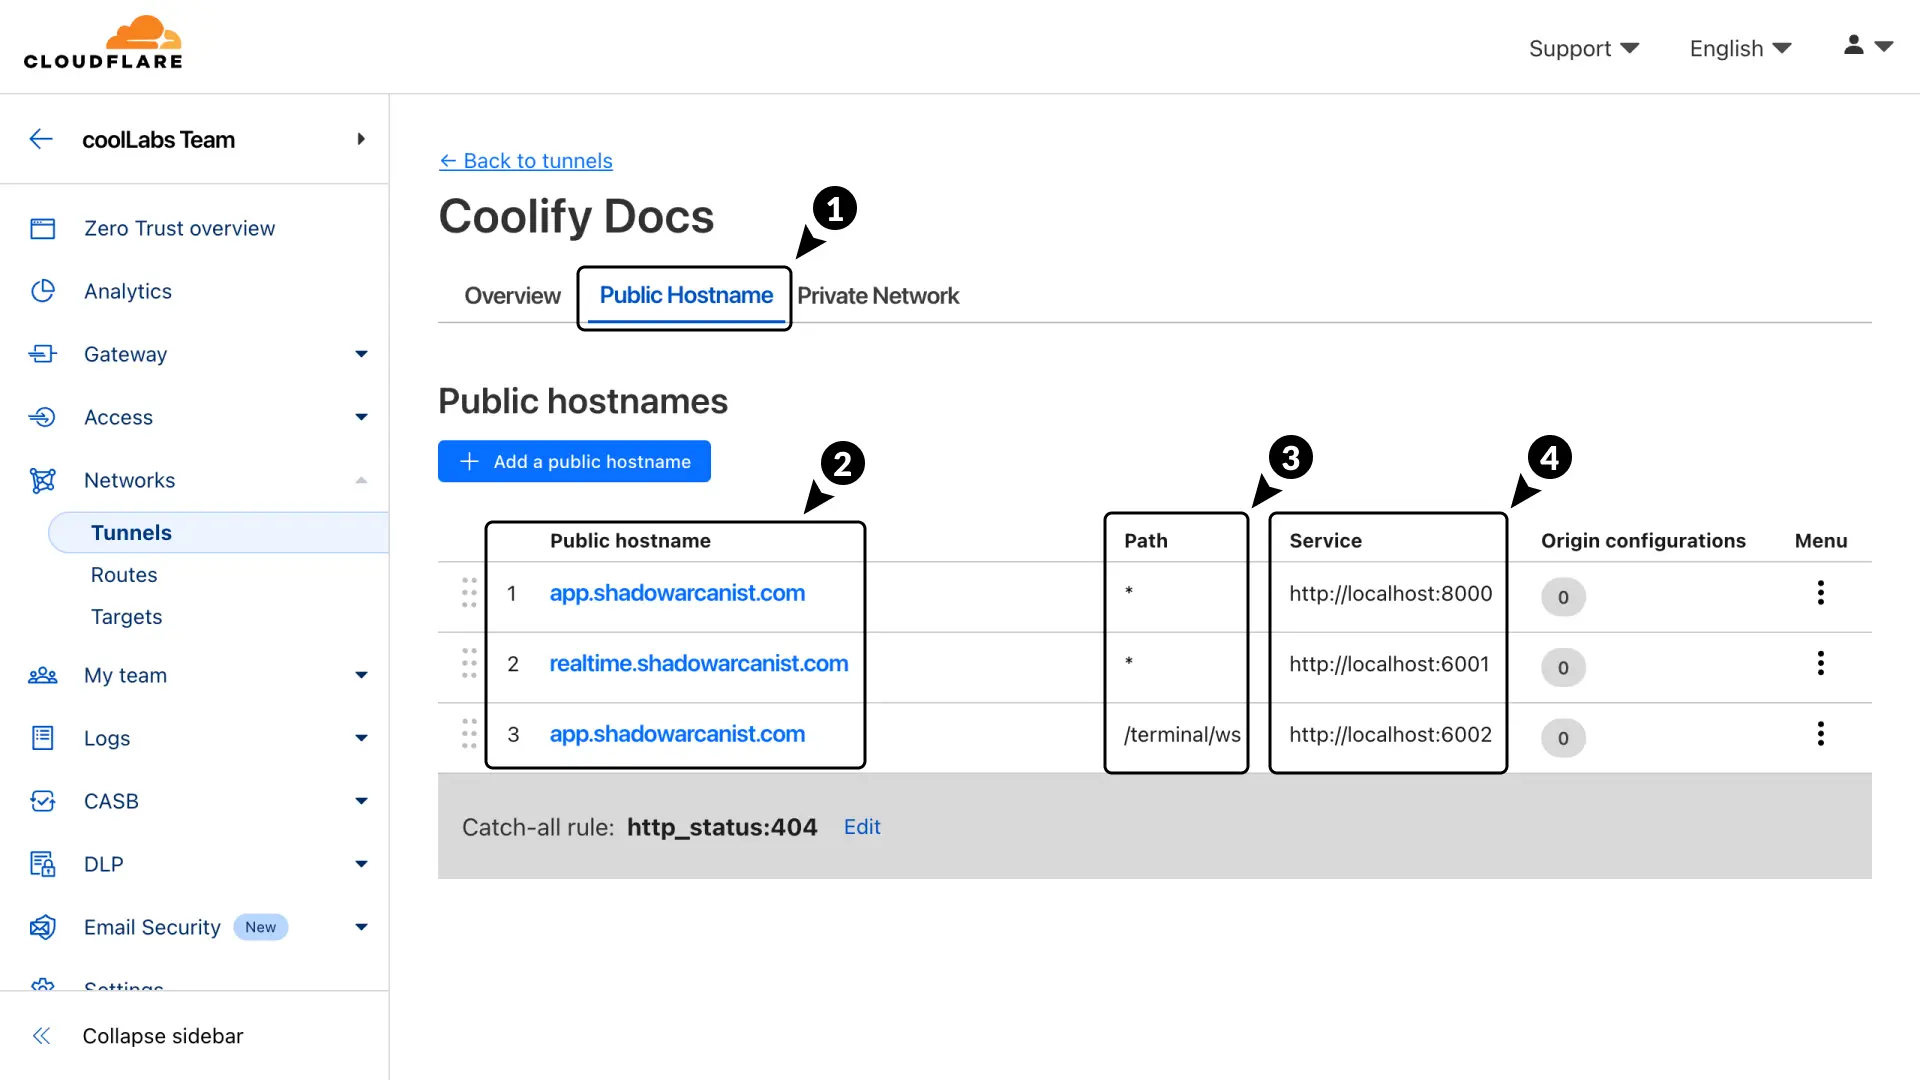
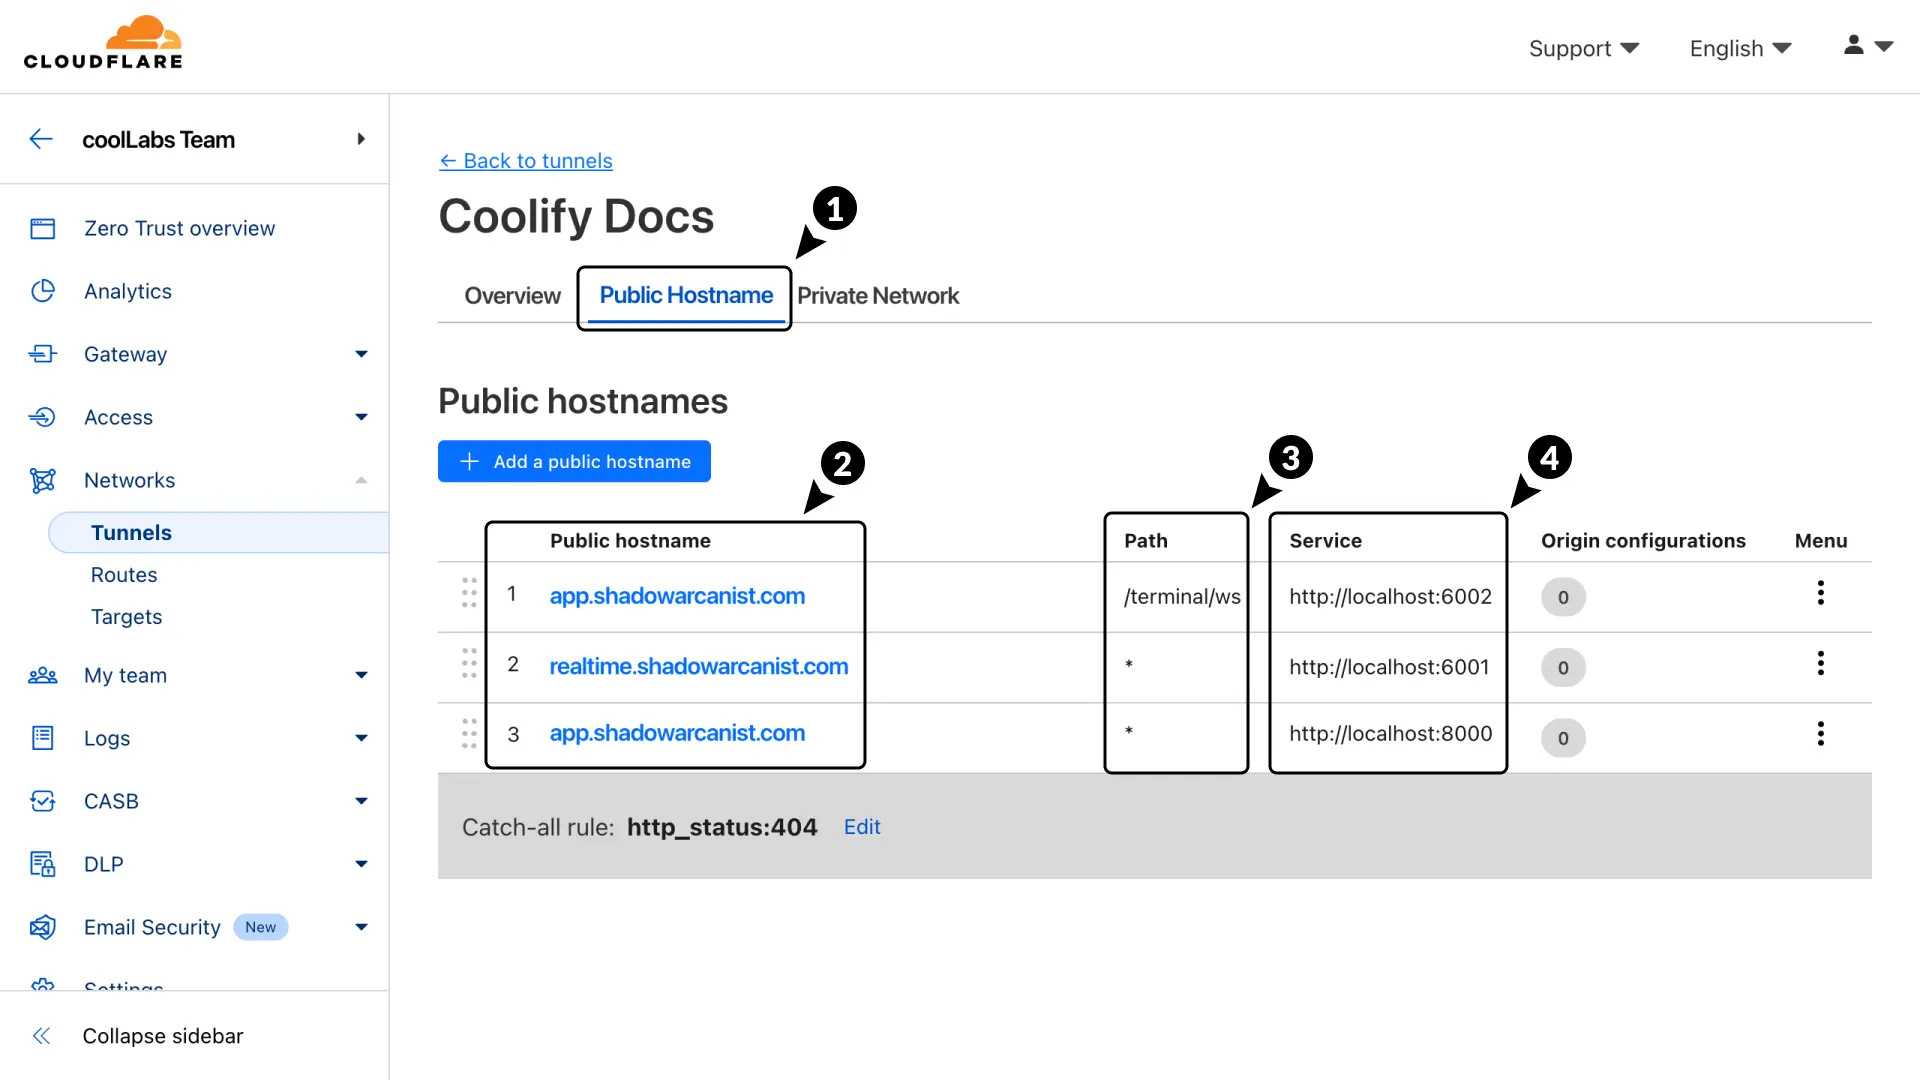
fix: hostname order for single resource tunnel

diff --git a/docs/knowledge-base/cloudflare/tunnels/single-resource.md b/docs/knowledge-base/cloudflare/tunnels/single-resource.md
@@ -3,10 +3,11 @@ title: "Access Single Resource via Cloudflare Tunnels"
 ---
 
 # Access Single Resource via Cloudflare Tunnels
-Accessing an Resource deployed on Coolify using a Cloudflare Tunnel allows you to securely reach your app without exposing your server’s IP address or without having a Public IP address for the server. 
 
+Accessing an Resource deployed on Coolify using a Cloudflare Tunnel allows you to securely reach your app without exposing your server’s IP address or without having a Public IP address for the server.
 
 ## Who this is for?
+
 This setup is ideal for people who:
 
 - Don't have a public IP for their server (could be a laptop, rasberry pi etc..).
@@ -14,21 +15,21 @@ This setup is ideal for people who:
 - Want to keep their server’s IP address private and avoid exposing it to the public internet.
 - Have an app already deployed on Coolify and need an external method to access it securely.
 
-
 ## Setup Requirements
+
 To follow this guide, you'll need:
 
 - A free [Cloudflare ↗](https://cloudflare.com) account.
 - You need a domain that has it's **DNS managed by Cloudflare**.
 - Your Resource has to be deployed and managed with Coolify.
 
-
 ## Before We Start
+
 - We assume you have Coolify running and an app already deployed.
 - If your app requires HTTPS for functionality like cookies or login, then you need to follow the [Full TLS HTTPS guide ↗](/knowledge-base/cloudflare/tunnels/full-tls) after following this guide. This is because in this guide, Cloudflare will manage HTTPS externally, while your app will run over HTTP within Coolify.
 
-
 ## How It Works?
+
 A simple high-level overview diagram to give you a visual idea of how this works:
 
 <ZoomableImage src="/docs/images/knowledge-base/cf-tunnel/single-resource/high-level-diagram.webp" />
@@ -36,6 +37,7 @@ A simple high-level overview diagram to give you a visual idea of how this works
 ---
 
 ### Quick Links to Important Sections:
+
 - [Setup your app for tunneling](#_1-setup-your-app-for-tunneling)
 - [Create a Cloudflare Tunnel](#_2-create-a-cloudflare-tunnel)
 - [Setup Cloudflare Tunnel on Coolify](#_3-setup-cloudflare-tunnel-on-coolify)
@@ -45,17 +47,17 @@ A simple high-level overview diagram to give you a visual idea of how this works
 ---
 
 ::: warning Example Data
-  The following data is used as an example in this guide. Please replace it with your actual data when following the steps:
-  
-  - **Domain Name:** shadowarcanist.com
-  - **Ports Exposes:** 80
-  - **Ports Mapping:** 4477:80
-:::
+The following data is used as an example in this guide. Please replace it with your actual data when following the steps:
+
+- **Domain Name:** shadowarcanist.com
+- **Ports Exposes:** 80
+- **Ports Mapping:** 4477:80
+  :::
 
 ---
 
-
 ## 1. Setup your app for tunneling
+
 To setup your app for tunneling, follow these steps:
 
 <ZoomableImage src="/docs/images/knowledge-base/cf-tunnel/single-resource/1.webp" />
@@ -65,8 +67,8 @@ To setup your app for tunneling, follow these steps:
 3. Set the correct ports in **Port Mappings** (left is the host port, right is the app port).
 4. Deploy your app by clicking the **Deploy** button.
 
-
 ## 2. Create a Cloudflare Tunnel
+
 To create a Cloudflare Tunnel, first log in to your Cloudflare account and go to the [Zero Trust ↗](https://one.dash.cloudflare.com/) page.
 
 <ZoomableImage src="/docs/images/knowledge-base/cf-tunnel/single-resource/2.webp" />
@@ -104,8 +106,8 @@ Then, you will be prompted to add a hostname.
 5. **URL** - Enter **localhost:4477** The port 4477 is the one we mapped to the host system in [Step 1](#_1-setup-your-app-for-tunneling). Replace 4477 with your own port.
 6. After filling in the details, click the **Save Tunnel** button.
 
-
 ## 3. Setup Cloudflare Tunnel on Coolify
+
 To set up the tunnel on Coolify, follow these steps:
 
 <ZoomableImage src="/docs/images/knowledge-base/cf-tunnel/single-resource/8.webp" />
@@ -123,11 +125,11 @@ Go to the **Environment Variables** page, enter your tunnel token, and deploy th
 **Congratulations**! You've successfully set up a resource that can be accessed by anyone on the internet your domain.
 
 :::danger HEADS UP!
-   **The steps above show how to tunnel a single resource. Below are the steps for tunneling multiple resources**
+**The steps above show how to tunnel a single resource. Below are the steps for tunneling multiple resources**
 :::
 
-
 ## Tunnel Multiple Resources
+
 The easiest way to tunnel multiple resources is by following our [Tunnel All Resources](/knowledge-base/cloudflare/tunnels/all-resource) guide, which uses Coolify's built-in proxy. However, if you prefer not to use the proxy, there are two alternative methods:
 
 - [Tunnel Multiple Single Resources](#tunnel-multiple-single-resources)
@@ -135,37 +137,40 @@ The easiest way to tunnel multiple resources is by following our [Tunnel All Res
 
 Tunneling multiple single resources is straightforward, but tunneling Coolify itself requires additional manual setup.
 
-
 ## Tunnel Multiple Single Resources
+
 If you want to expose different apps individually, you can follow our [Tunnel All Resources](/knowledge-base/cloudflare/tunnels/all-resource), or take an alternate approach:
 
 <ZoomableImage src="/docs/images/knowledge-base/cf-tunnel/single-resource/11.webp" />
 
-1. Follow [Step 1](#_1-setup-your-app-for-tunneling) for your new resource.  
-2. Create a new public hostname on Cloudflare Tunnel as described in [Step 2](#_2-create-a-cloudflare-tunnel).  
+1. Follow [Step 1](#_1-setup-your-app-for-tunneling) for your new resource.
+2. Create a new public hostname on Cloudflare Tunnel as described in [Step 2](#_2-create-a-cloudflare-tunnel).
 
 There’s no need to create a separate tunnel for each resources, simply create a new hostname and point it to the port your app is listening on.
 
-
 ## Tunnel Coolify
+
 Tunneling Coolify itself to make it accessible over a domain requires a bit more manual configuration. Here's how you can set it up:
 
 ### 1. Create Public Hostnames in Cloudflare Tunnel
-Follow [Step 2](#_2-create-a-cloudflare-tunnel) from the main guide to create public hostnames for each service Coolify exposes. Use the following mapping:  
+
+Follow [Step 2](#_2-create-a-cloudflare-tunnel) from the main guide to create public hostnames for each service Coolify exposes. Use the following mapping:
 
 <ZoomableImage src="/docs/images/knowledge-base/cf-tunnel/single-resource/14.webp" />
 
-- **Hostnames**:  
-  1. `app.shadowarcanist.com` → `localhost:8000` (Coolify dashboard)  
-  2. `realtime.shadowarcanist.com` → `localhost:6001` (Realtime server)  
-  3. `app.shadowarcanist.com/terminal/ws` → `localhost:6002` (WebSocket terminal)  
+- **Hostnames**:
 
-- **Type**: HTTP (Ensure you select HTTP for each hostname.)  
+  1. `app.shadowarcanist.com/terminal/ws` → `localhost:6002` (WebSocket terminal)
+  2. `realtime.shadowarcanist.com` → `localhost:6001` (Realtime server)
+  3. `app.shadowarcanist.com` → `localhost:8000` (Coolify dashboard)
+
+- **Type**: HTTP (Ensure you select HTTP for each hostname.)
 
 ---
 
 ### 2. Update Coolify’s `.env` File
-After creating public hostnames, update the `.env` file in your Coolify instance located at `/data/coolify/source` to enable connections to the realtime server. Add the following lines:  
+
+After creating public hostnames, update the `.env` file in your Coolify instance located at `/data/coolify/source` to enable connections to the realtime server. Add the following lines:
 
 ```bash
 APP_ID=<random string>
@@ -186,30 +191,29 @@ PUSHER_PORT=443
 
 This ensures that Coolify uses the Cloudflare Tunnel for its realtime server.
 
-
 ### 3. Restart Coolify
+
 Run the following command to restart Coolify and apply the changes:
 
 ```bash
 curl -fsSL https://cdn.coollabs.io/coolify/install.sh | bash
 ```
 
-
 ### 4. Verify the Setup
-1. Access your Coolify dashboard at `https://app.shadowarcanist.com`.  
-2. Test the realtime functionality by visiting `https://app.shadowarcanist.com/realtime` in another browser tab. You should see a notification about a test event.  
+
+1. Access your Coolify dashboard at `https://app.shadowarcanist.com`.
+2. Test the realtime functionality by visiting `https://app.shadowarcanist.com/realtime` in another browser tab. You should see a notification about a test event.
 3. If you know what are you doing, you can check the network tab as well. Search for a websocket connection.
 
-
 ::: warning HEADS UP!
-  If you use a firewall, ensure that the required ports (e.g., `8000`, `6001`, `6002`) are open for internal communication but not exposed to the public internet.  
+If you use a firewall, ensure that the required ports (e.g., `8000`, `6001`, `6002`) are open for internal communication but not exposed to the public internet.  
 :::
 
-
 ## Known issues and Solutions
-When you create a new public hostname in [Step 2](#_2-create-a-cloudflare-tunnel), Cloudflare will create a DNS record for the hostname. 
 
-However, if a DNS record for the hostname already exists, Cloudflare won’t create a new one. 
+When you create a new public hostname in [Step 2](#_2-create-a-cloudflare-tunnel), Cloudflare will create a DNS record for the hostname.
+
+However, if a DNS record for the hostname already exists, Cloudflare won’t create a new one.
 
 In this case, your app won’t work. To fix this issue, follow the steps below:
 
